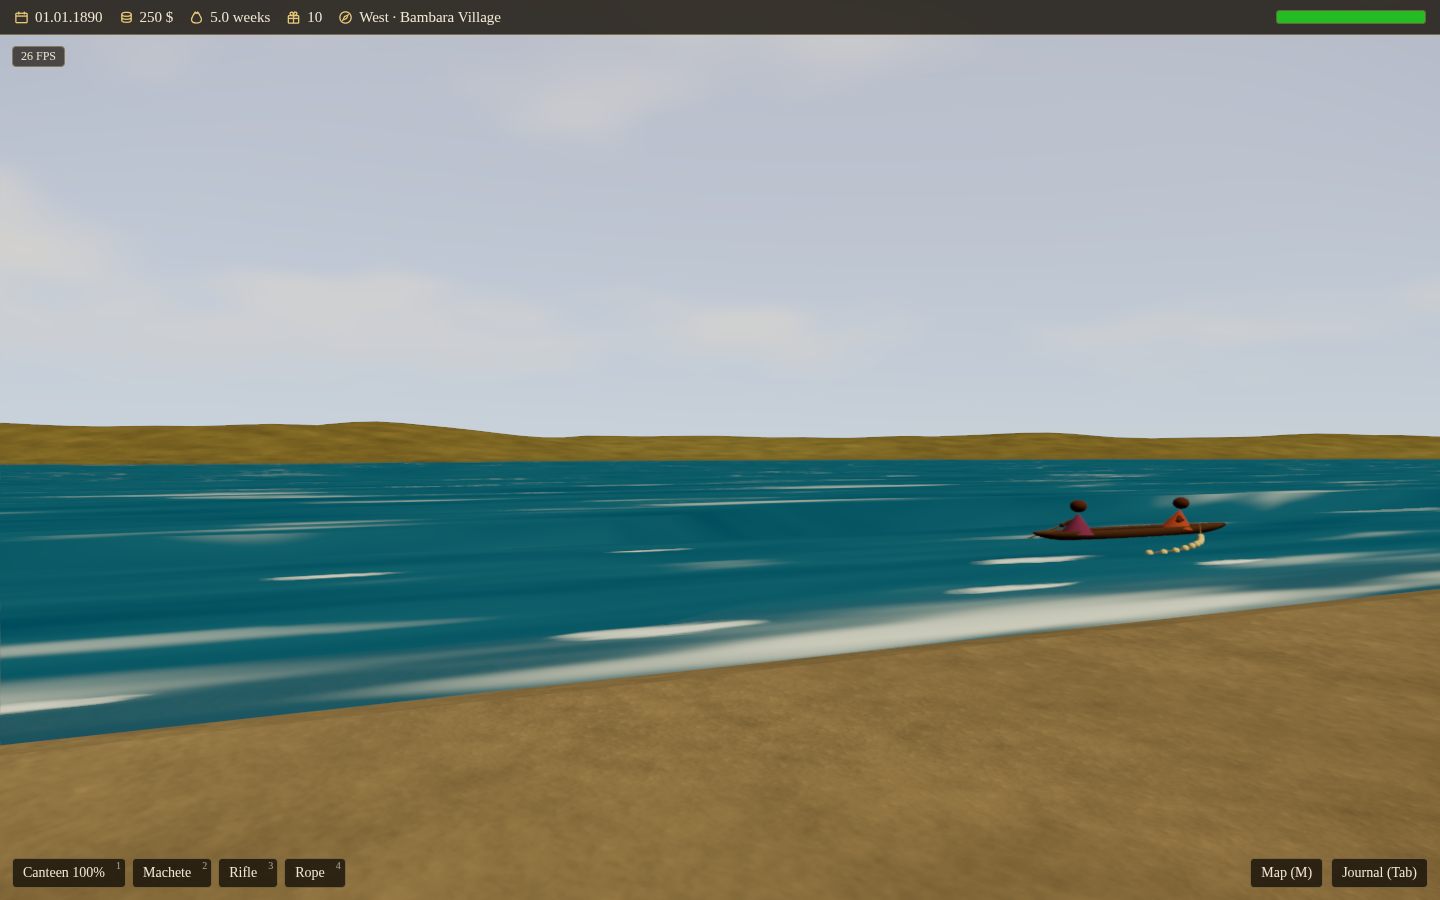
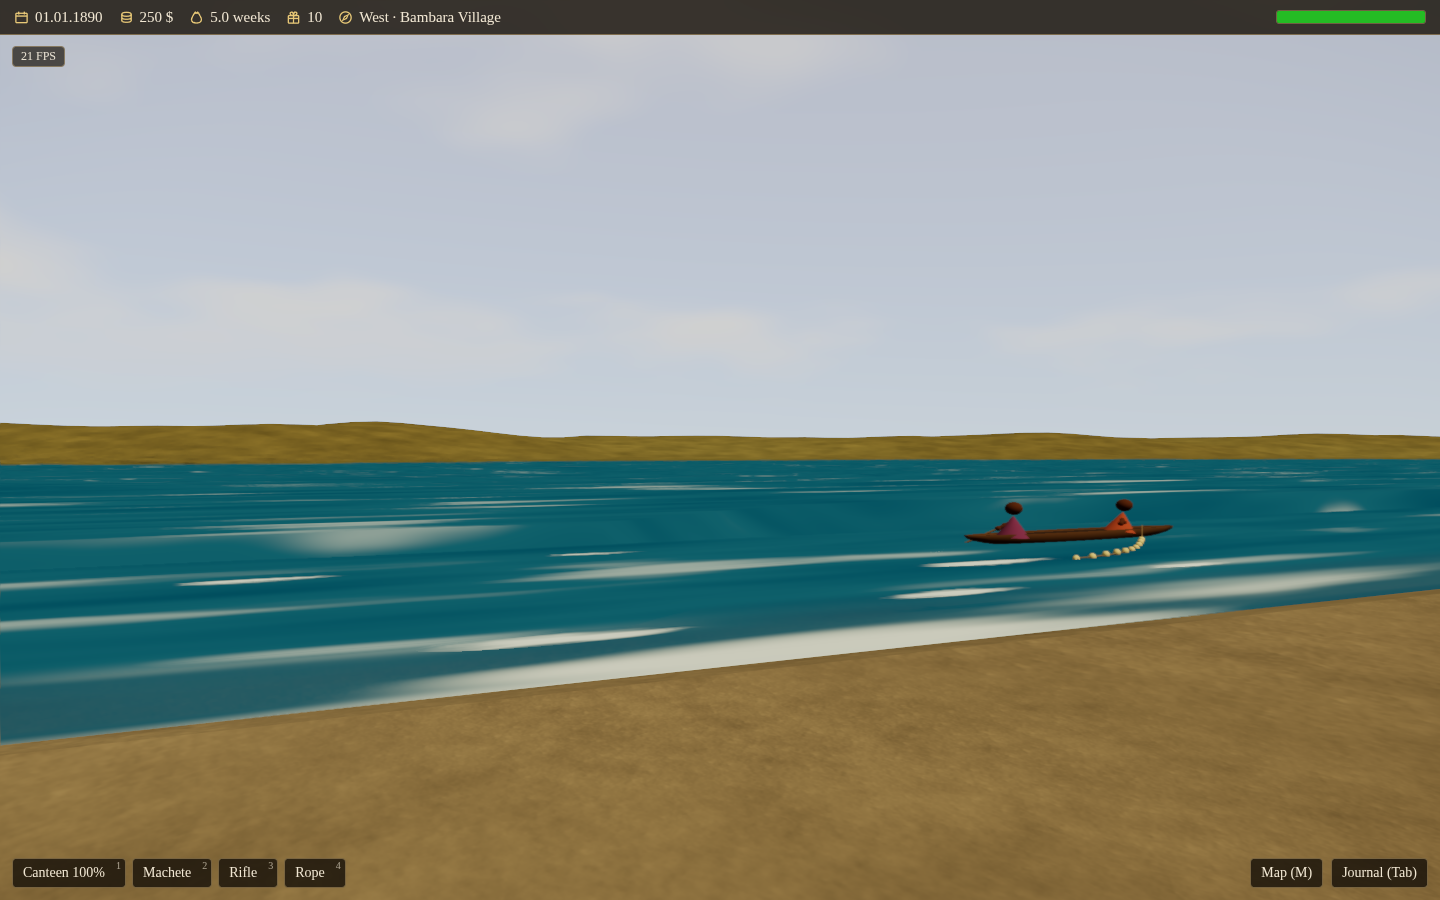
Close the underside of the river so the panorama band cannot show through the water
The drawn river is transparent and writes no depth, and its bed ends 10 m out
at the drawn shore's ends. A sight line that dipped under the surface past the
bed's edge met nothing opaque until the panorama band 200 m off, whose low rows
hold the captured savanna: the reported flat yellow band on the river between
the dugout and the near bank. An opaque flat floor at bed depth now runs from
the waterline far out and along under the water.

The ray probe reports what a line meets behind the water; the shore section
waits for the travel panorama to be captured (the band's precondition), checks
it is up, and counts a river point as land when the horizon band or the sky
shows through it. Without the floor it fails on exactly that.

Changed region(s): [[0.0, 0.4978, 1.0, 0.84]]

diff --git a/src/scenes/place/PlaceScene.tsx b/src/scenes/place/PlaceScene.tsx
@@ -131,6 +131,7 @@ import { UNSTUCK_KEY_CODE, UNSTUCK_KEY_LABEL, escapeOutcome, findFreeSpot, newSt
 import { bankDrawnReach, buildBoundaryLut, groundDiscShift, isOutsidePlace, type PlaceBounds } from './boundary'
 import {
   RIVER_HALF_LENGTH,
+  buildRiverFloorGeometry,
   buildBankShoreGeometry,
   buildFoamPatchGeometry,
   buildGroundPlateGeometry,
@@ -2097,12 +2098,18 @@ function PlaceRiver({
     [bank, segments, reach],
   )
   const shore = useMemo(() => buildBankShoreGeometry(bank, reach.up, reach.down), [bank, reach])
+  // The opaque underside of the transparent water (work-order 1250).
+  const floor = useMemo(
+    () => buildRiverFloorGeometry(bank, Math.max(RIVER_HALF_LENGTH, reach.up), Math.max(RIVER_HALF_LENGTH, reach.down)),
+    [bank, reach],
+  )
   const flecks = useMemo(() => buildRiverFlecks(foamCount), [foamCount])
   const foamGeometry = useMemo(() => buildFoamPatchGeometry(), [])
   // A module singleton like the water's, so it is never disposed here.
   const foamMaterial = createRiverFoamMaterial()
   useEffect(() => () => surface.dispose(), [surface])
   useEffect(() => () => shore.dispose(), [shore])
+  useEffect(() => () => floor.dispose(), [floor])
   useEffect(() => () => foamGeometry.dispose(), [foamGeometry])
 
   const foamRef = useRef<THREE.InstancedMesh>(null)
@@ -2152,6 +2159,7 @@ function PlaceRiver({
   return (
     <>
       <mesh name="place-river-shore" geometry={shore} material={groundMaterial} receiveShadow />
+      <mesh name="place-river-floor" geometry={floor} material={groundMaterial} />
       <mesh name="place-river" geometry={surface} material={water} />
       <instancedMesh
         name="place-river-foam"
@@ -2678,6 +2686,12 @@ export function PlaceScene() {
       const rc = new THREE.Raycaster(camera.position.clone(), dir, 0.1, 4000)
       const hits = rc.intersectObject(r3fScene, true)
       const hit = hits.find((h) => h.object.name !== 'panorama-silhouette' && (h.object as THREE.Mesh).visible)
+      // Behind the transparent water: the first surface a sight line meets once
+      // it has passed under the drawn river (work-order 1250) — null for none.
+      const behind = hit?.object.name === 'place-river'
+        ? hits.find((h) => h.distance > hit.distance && h.object.name !== 'place-river' && h.object.name !== 'place-river-foam' &&
+          h.object.name !== 'panorama-silhouette' && (h.object as THREE.Mesh).visible)
+        : undefined
       // Whether the surface hit is drawn as WATER: the backdrop's own mask at
       // the hit face (work-order 1250 — map land lay on the river as a band).
       const mask = hit?.face ? (hit.object as THREE.Mesh).geometry?.getAttribute('waterMask') : undefined
@@ -2693,6 +2707,8 @@ export function PlaceScene() {
         hitDistance: hit ? hit.distance : null,
         hitName: hit ? hit.object.name || (hit.object as THREE.Mesh).geometry?.type || 'mesh' : null,
         hitWater,
+        behindName: behind === undefined ? undefined : behind ? behind.object.name || 'mesh' : null,
+        behindDistance: behind ? behind.distance : null,
       }
     }
     w.__placeSeason = () => ({

diff --git a/src/render/placeRiver.ts b/src/render/placeRiver.ts
@@ -20,6 +20,7 @@
 import * as THREE from 'three/webgpu'
 import { float, instanceIndex, mx_fractal_noise_float, positionLocal, smoothstep, time, uv, vec3 } from 'three/tsl'
 import {
+  BANK_BED_DEPTH,
   BANK_BED_REACH,
   BANK_SHORE_HALF,
   BANK_WATER_DROP,
@@ -119,6 +120,37 @@ export function buildBankShoreGeometry(
   const g = new THREE.BufferGeometry()
   g.setAttribute('position', new THREE.BufferAttribute(new Float32Array(positions), 3))
   g.setIndex(indices)
+  g.computeVertexNormals()
+  return g
+}
+
+/** How far the river floor runs past the drawn water, out and along (m). Far
+ *  enough that no sight line under the transparent water escapes it. */
+export const RIVER_FLOOR_REACH = 400
+/** The floor lies this far under the deepest bed row, so the bed stays on top. */
+export const RIVER_FLOOR_SINK = 0.05
+
+/**
+ * THE RIVER'S FLOOR (work-order 1250). The drawn water is transparent and writes
+ * no depth, and the bed under it ends `BANK_BED_REACH` out, at the ends of the
+ * drawn shore. A sight line that dipped under the surface and passed the bed's
+ * edge met nothing opaque until the §2.5 panorama band 200 m off, whose low rows
+ * hold the captured savanna — the reported flat yellow band on the river
+ * between the dugout and the near bank. One flat opaque quad at bed depth, from
+ * the waterline far out and far along, closes the underside; the sloping bed
+ * and every surface above it cover it wherever they are drawn.
+ */
+export function buildRiverFloorGeometry(bank: PlaceRiverBank, halfLength: number, downLength = halfLength): THREE.BufferGeometry {
+  const y = -BANK_WATER_DROP - BANK_BED_DEPTH - RIVER_FLOOR_SINK
+  const near = bank.distance
+  const far = bank.distance + BANK_BED_REACH + RIVER_FLOOR_REACH
+  const up = -(halfLength + RIVER_FLOOR_REACH)
+  const down = downLength + RIVER_FLOOR_REACH
+  const at = (out: number, along: number) => [bank.nx * out + bank.fx * along, y, bank.nz * out + bank.fz * along]
+  const g = new THREE.BufferGeometry()
+  g.setAttribute('position', new THREE.BufferAttribute(new Float32Array([...at(near, up), ...at(near, down), ...at(far, up), ...at(far, down)]), 3))
+  // Wound face-up, as the shore is: column (downstream) × row (outward).
+  g.setIndex([0, 1, 2, 1, 3, 2])
   g.computeVertexNormals()
   return g
 }

diff --git a/src/render/placeRiver.test.ts b/src/render/placeRiver.test.ts
@@ -13,6 +13,8 @@ import {
   buildGroundPlateGeometry,
   buildRiverFlecks,
   buildRiverSurfaceGeometry,
+  buildRiverFloorGeometry,
+  RIVER_FLOOR_REACH,
   fleckPosition,
 } from './placeRiver'
 import {
@@ -253,4 +255,34 @@ it('keeps half of the current markers within four metres of the teaching bank', 
     expect(flecks.filter((f) => f.across < 4).length).toBeGreaterThanOrEqual(count / 2)
     expect(flecks.every((f) => f.size >= 0.35)).toBe(true)
   }
+})
+
+// THE RIVER'S FLOOR (work-order 1250): the transparent water had no opaque
+// underside past the bed's edge, and the panorama band's savanna showed through.
+describe('the river floor closes the underside of the drawn water', () => {
+  const floor = buildRiverFloorGeometry(bank, 42, 60)
+  const pos = floor.getAttribute('position')
+  const pts = Array.from({ length: pos.count }, (_, i) => ({ x: pos.getX(i), y: pos.getY(i), z: pos.getZ(i) }))
+  const out = (p: { x: number; z: number }) => p.x * bank.nx + p.z * bank.nz
+  const along = (p: { x: number; z: number }) => p.x * bank.fx + p.z * bank.fz
+
+  it('lies flat under the deepest bed row, so the sloping bed stays on top of it', () => {
+    const bed = bankShoreHeight(bank, bank.distance + BANK_BED_REACH)
+    for (const p of pts) expect(p.y).toBeLessThan(bed)
+    expect(new Set(pts.map((p) => p.y.toFixed(6))).size).toBe(1)
+  })
+
+  it('runs from the waterline far out past the drawn water, and far along past both of its ends', () => {
+    const outs = pts.map(out)
+    const alongs = pts.map(along)
+    expect(Math.min(...outs)).toBeCloseTo(bank.distance, 3)
+    expect(Math.max(...outs)).toBeGreaterThanOrEqual(bank.distance + RIVER_REACH + RIVER_FLOOR_REACH - 1e-3)
+    expect(Math.min(...alongs)).toBeLessThanOrEqual(-42 - RIVER_FLOOR_REACH + 1e-3)
+    expect(Math.max(...alongs)).toBeGreaterThanOrEqual(60 + RIVER_FLOOR_REACH - 1e-3)
+  })
+
+  it('faces up, so it is drawn and lit from above', () => {
+    const n = floor.getAttribute('normal')
+    for (let i = 0; i < n.count; i++) expect(n.getY(i)).toBeGreaterThan(0.99)
+  })
 })
